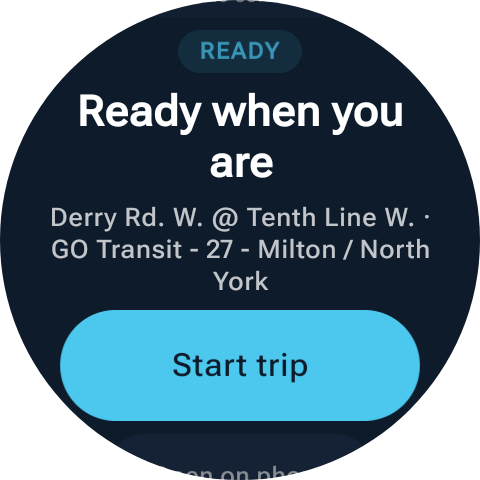
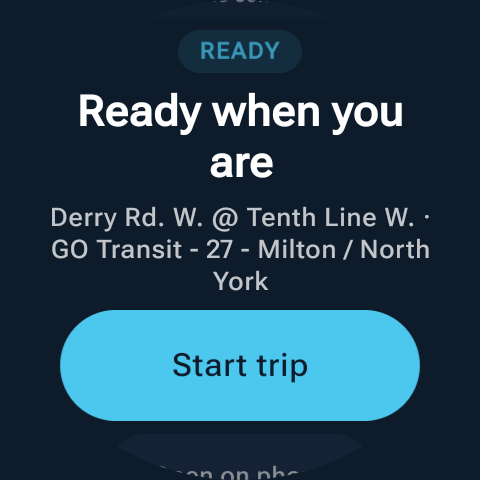
Flatten Wear screenshots for Play Console (no transparency).
Composite watch shots onto an opaque background and ship JPEG store assets so Play accepts Wear listing uploads.

diff --git a/website/play-console/README.md b/website/play-console/README.md
@@ -21,16 +21,18 @@ Upload in numeric order (01 → 08) on the **Phone** screenshots tab.
 
 ## Wear OS (4) — `wear/`
 
-Upload in numeric order (01 → 04) on the **Wear OS** screenshots tab (separate Wear listing).
+Upload the **`.jpg` files** in numeric order (01 → 04) on the **Wear OS** screenshots tab (separate Wear listing).
+
+Play rejects images with transparency — these are flattened onto the app midnight background (`#0D1B2A`).
 
 | File | Suggested caption (optional) |
 |------|------------------------------|
-| `01-set-up-on-phone.png` | Set up on phone — watch syncs over Bluetooth. |
-| `02-ready.png` | Ready when you are — start from wrist or phone. |
-| `03-watching.png` | Stops remaining at a glance on your wrist. |
-| `04-get-ready-alarm.png` | GET READY wake alert on your watch. |
+| `01-set-up-on-phone.jpg` | Set up on phone — watch syncs over Bluetooth. |
+| `02-ready.jpg` | Ready when you are — start from wrist or phone. |
+| `03-watching.jpg` | Stops remaining at a glance on your wrist. |
+| `04-get-ready-alarm.jpg` | GET READY wake alert on your watch. |
 
-**Specs:** 480 × 480 px (square). Meets Play minimum 384 px.
+**Specs:** 480 × 480 px (square), opaque JPEG. Meets Play minimum 384 px.
 
 ## Swap candidates
 
